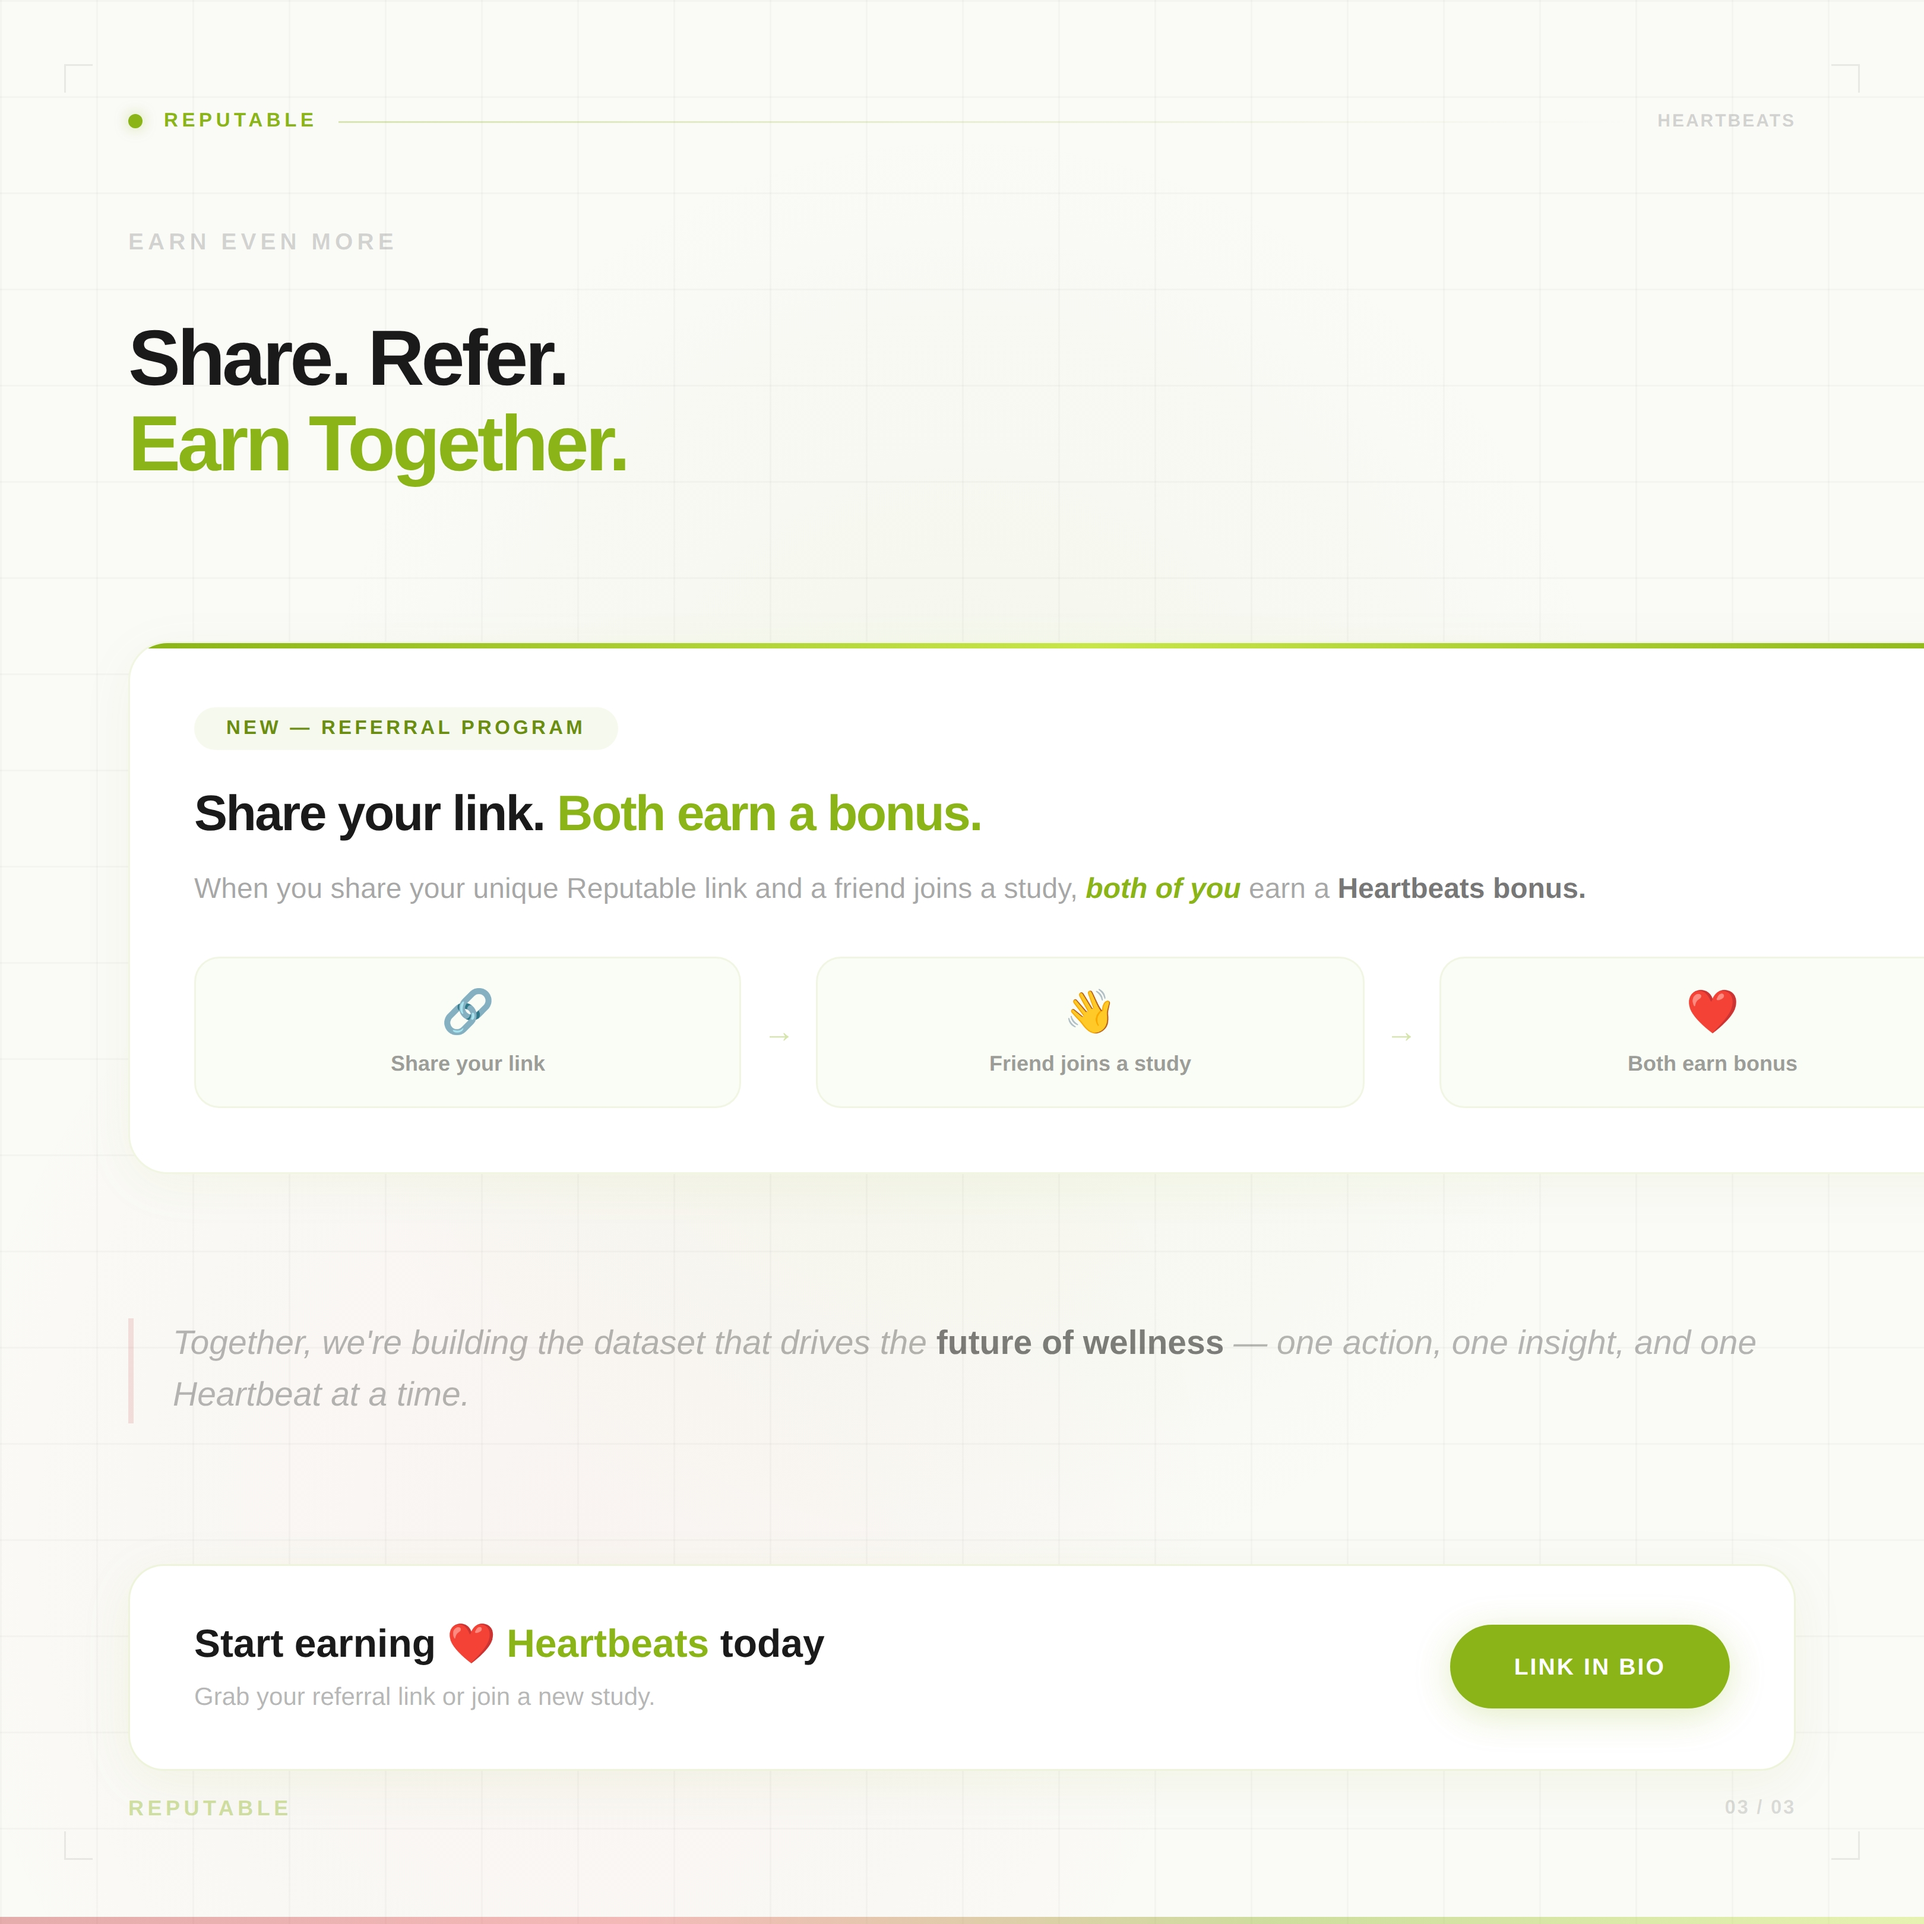
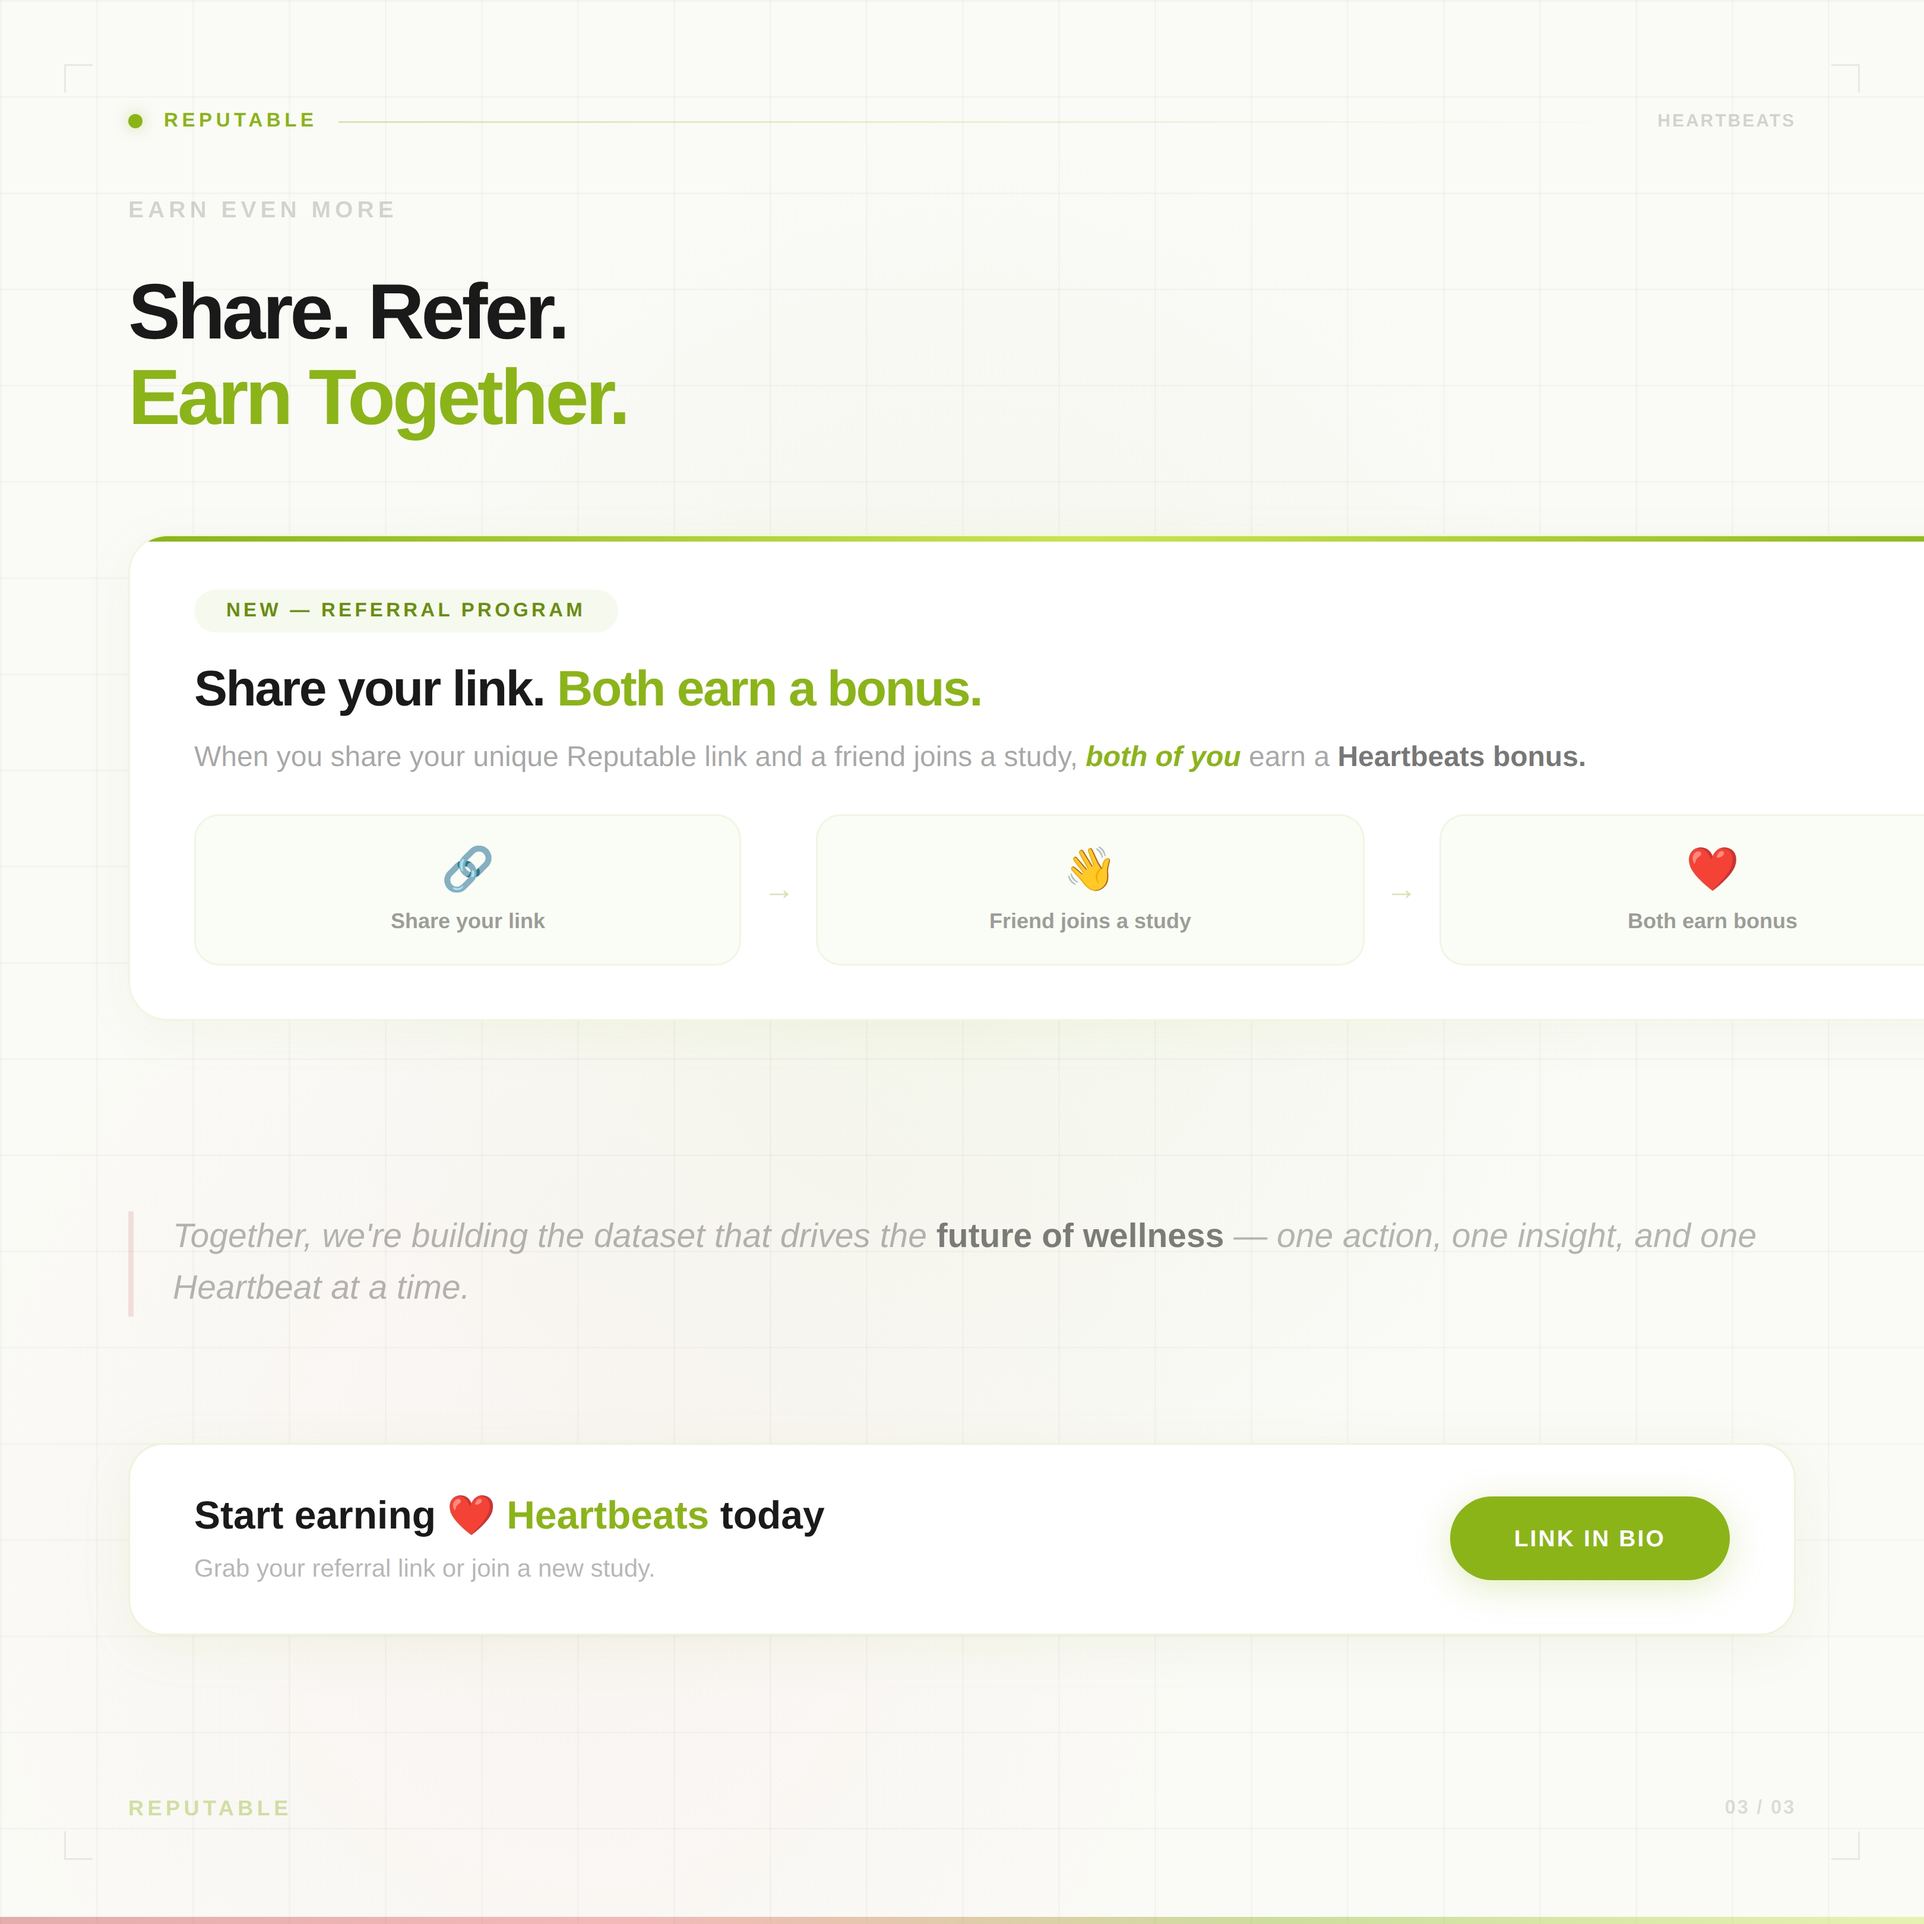
Fix spacing on Heartbeats explainer slides 1 and 3
Slide 1: Reduced headline to 52px, moved sub text down to 695px to
eliminate overlap with the 4-line headline block.

Slide 3: Pulled section label, headline, and referral card upward;
tightened card internal margins; moved mission quote and CTA up to
give proper breathing room above the footer.

https://claude.ai/code/session_01TfrrBTyPYsf3Z7Zsrx7aQ5

diff --git a/heartbeats-explainer-3.html b/heartbeats-explainer-3.html
@@ -57,14 +57,14 @@
 
   .section-label {
     position: absolute;
-    top: 128px; left: 72px;
+    top: 110px; left: 72px;
     font-size: 13px; font-weight: 800; letter-spacing: 0.18em;
     text-transform: uppercase; color: rgba(0,0,0,0.16);
   }
 
   .headline {
     position: absolute;
-    top: 178px; left: 72px; right: 72px;
+    top: 152px; left: 72px; right: 72px;
     font-size: 44px; font-weight: 900; line-height: 1.08;
     letter-spacing: -0.04em; color: #1a1a1a;
   }
@@ -74,9 +74,9 @@
   /* ── Referral card ─────────────────────────── */
   .referral {
     position: absolute;
-    top: 360px;
+    top: 300px;
     left: 72px; right: 72px;
-    padding: 36px 36px;
+    padding: 30px 36px;
     background: #FFFFFF;
     border: 1.5px solid rgba(138,180,23,0.12);
     border-radius: 22px;
@@ -101,7 +101,7 @@
     padding: 6px 18px;
     border-radius: 100px;
     background: rgba(138,180,23,0.08);
-    margin-bottom: 20px;
+    margin-bottom: 16px;
   }
 
   .ref-title {
@@ -109,7 +109,7 @@
     color: #1a1a1a;
     line-height: 1.15;
     letter-spacing: -0.03em;
-    margin-bottom: 14px;
+    margin-bottom: 10px;
   }
   .ref-title .accent { color: #8AB417; }
 
@@ -117,7 +117,7 @@
     font-size: 16px; font-weight: 450;
     color: rgba(0,0,0,0.35);
     line-height: 1.6;
-    margin-bottom: 24px;
+    margin-bottom: 18px;
   }
   .ref-desc strong { color: rgba(0,0,0,0.55); font-weight: 700; }
   .ref-desc em { color: #8AB417; font-style: italic; font-weight: 600; }
@@ -149,7 +149,7 @@
   /* ── Mission quote ─────────────────────────── */
   .mission {
     position: absolute;
-    top: 740px;
+    top: 680px;
     left: 72px; right: 72px;
     padding-left: 22px;
     border-left: 3px solid rgba(196,59,59,0.15);
@@ -170,9 +170,9 @@
   /* ── CTA ────────────────────────────────────── */
   .cta {
     position: absolute;
-    top: 878px;
+    top: 810px;
     left: 72px; right: 72px;
-    padding: 30px 36px;
+    padding: 26px 36px;
     background: #FFFFFF;
     border: 1.5px solid rgba(138,180,23,0.15);
     border-radius: 20px;

diff --git a/heartbeats-explainer-1.html b/heartbeats-explainer-1.html
@@ -115,7 +115,7 @@
     text-align: center;
   }
   .headline h1 {
-    font-size: 56px;
+    font-size: 52px;
     font-weight: 900;
     line-height: 1.06;
     letter-spacing: -0.04em;
@@ -127,7 +127,7 @@
   /* ── Subtext ───────────────────────────────── */
   .sub {
     position: absolute;
-    top: 650px;
+    top: 695px;
     left: 130px; right: 130px;
     text-align: center;
   }
@@ -146,7 +146,7 @@
   /* ── Milestone counter ─────────────────────── */
   .milestone {
     position: absolute;
-    top: 810px;
+    top: 830px;
     left: 72px; right: 72px;
     display: flex;
     justify-content: center;
@@ -176,7 +176,7 @@
   /* ── Swipe ──────────────────────────────────── */
   .swipe {
     position: absolute;
-    top: 930px;
+    top: 945px;
     left: 50%;
     transform: translateX(-50%);
     display: flex;
